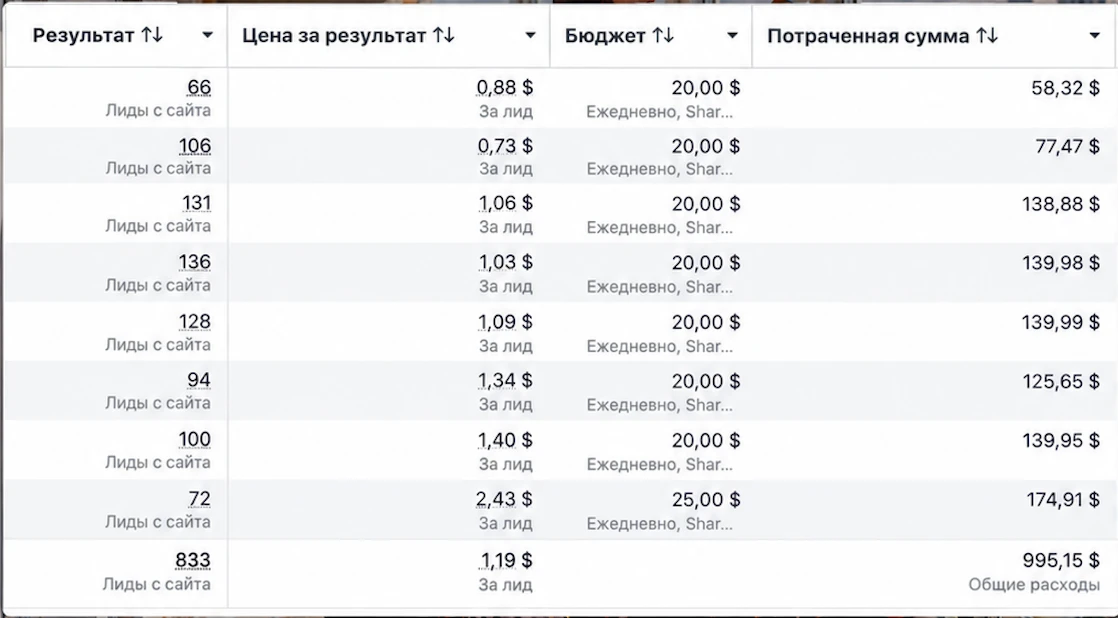
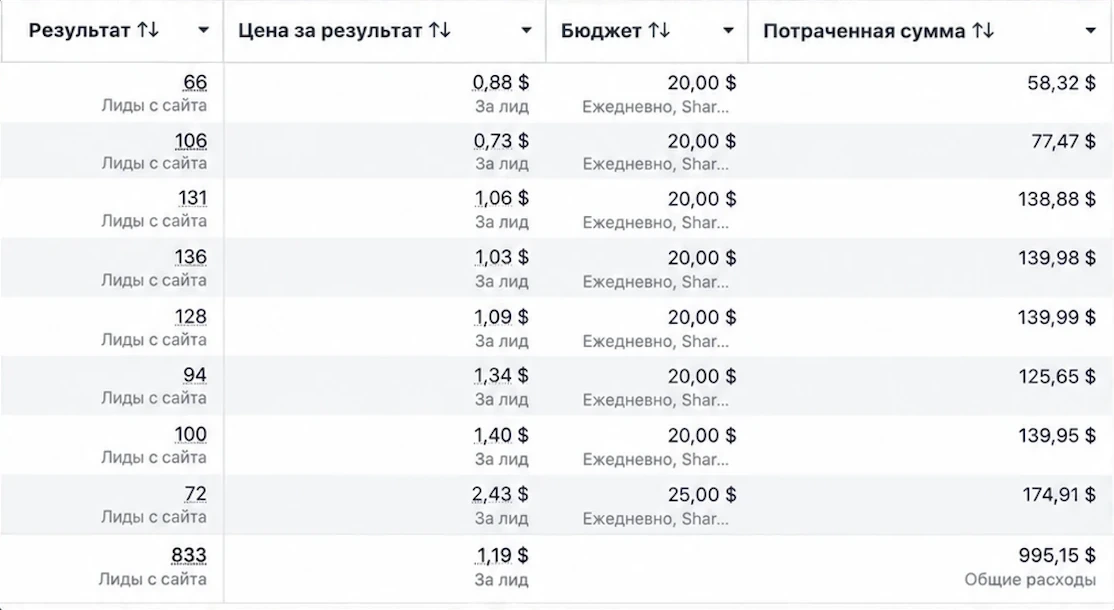
kp: правки после проверки — срезана тёмная кромка у скрина балконов, первый скрин по тмину обрезан по границе строки, размеры img обновлены, в COPY.md/DESIGN.md убраны упоминания старой картинки
Claude-Session: https://claude.ai/code/session_01YBJW2xSYFCdZePFjFwa6w9

diff --git a/silkway-kp-site/index.html b/silkway-kp-site/index.html
@@ -117,7 +117,7 @@
           <article class="case case--light">
             <figure class="case__media">
               <a class="case__shot" href="assets/cabinet-balcony.webp" target="_blank" rel="noopener">
-                <img src="assets/cabinet-balcony.webp" alt="Рекламный кабинет: 833 лида с сайта по $1,19, расход $995,15" width="1118" height="618" loading="lazy">
+                <img src="assets/cabinet-balcony.webp" alt="Рекламный кабинет: 833 лида с сайта по $1,19, расход $995,15" width="1114" height="610" loading="lazy">
               </a>
               <figcaption class="case__figcaption">Рекламный кабинет, остекление балконов</figcaption>
             </figure>
@@ -130,7 +130,7 @@
           <article class="case case--dark">
             <figure class="case__media">
               <a class="case__shot" href="assets/cabinet-tmin-1.webp" target="_blank" rel="noopener">
-                <img src="assets/cabinet-tmin-1.webp" alt="Рекламный кабинет: группы объявлений prem и tmin, цена за начатую переписку от $1,04" width="1720" height="768" loading="lazy">
+                <img src="assets/cabinet-tmin-1.webp" alt="Рекламный кабинет: группы объявлений prem и tmin, цена за начатую переписку от $1,04" width="1720" height="740" loading="lazy">
               </a>
               <a class="case__shot" href="assets/cabinet-tmin-2.webp" target="_blank" rel="noopener">
                 <img src="assets/cabinet-tmin-2.webp" alt="Рекламный кабинет: общие расходы $9 038,25, цена за начатую переписку около $2" width="1103" height="580" loading="lazy">

diff --git a/silkway-kp-site/DESIGN.md b/silkway-kp-site/DESIGN.md
@@ -41,7 +41,7 @@
 3. **Что делаю**: H2 + сетка 2×2 белых карточек с оранжевой нумерацией 01-04.
 4. **Как проходит неделя**: H2 + три колонки под верхней линией 2px `--ink`. В каждой: оранжевая метка «День 1-2» и текст.
 5. **Цена**: один оранжевый блок, радиус 24px. Слева надпись и цена 100 000 ₸ белым, справа два условия.
-6. **Кейсы**: H2 + подзаголовок. Две карточки: белая с картинкой сверху (`assets/case-balcony.png`, object-fit cover, потом сюда скрин кабинета) и тёмная с большой оранжевой цифрой 450%. Под ними белая плашка с оранжевой левой границей 4px (честная строка про карго).
+6. **Кейсы**: H2 + подзаголовок. Две карточки: белая со скрином кабинета сверху (`assets/cabinet-balcony.webp`, подпись под ним, по тапу открывается в полный размер) и тёмная с двумя скринами кабинета (`assets/cabinet-tmin-1.webp`, `assets/cabinet-tmin-2.webp`) и большой оранжевой цифрой 450%. Под ними белая плашка с оранжевой левой границей 4px (честная строка про карго).
 7. **CTA**: тёмный блок, радиус 24px. Слева заголовок и строка, справа оранжевая кнопка `Написать в ватсап` (высота 56px, радиус 14px, ссылка на wa.me).
 8. **Футер**: две строки серым, 15px.
 

diff --git a/silkway-kp-site/COPY.md b/silkway-kp-site/COPY.md
@@ -36,12 +36,12 @@ H1: Тест рекламы на 7 дней
 H2: Кейсы
 Подзаголовок: Из других ниш, но механика та же: реклама в инстаграме, заявки в ватсап, считаем цену заявки и выручку.
 
-Кейс 1 (с картинкой `assets/case-balcony.png`, позже заменить на скрин кабинета):
+Кейс 1 (со скрином кабинета `assets/cabinet-balcony.webp`, подпись «Рекламный кабинет, остекление балконов»):
 - Метка: Остекление балконов
 - Заголовок: 2,5 → 12 млн ₸ выручки
 - Текст: 833 заявки по $1,19 при бюджете $995. Заявок стало столько, что пришлось нанимать монтажников.
 
-Кейс 2 (тёмная карточка, слот под скрин кабинета):
+Кейс 2 (тёмная карточка, два скрина кабинета `assets/cabinet-tmin-1.webp` и `assets/cabinet-tmin-2.webp`, подпись «Рекламный кабинет, коллаген и тмин»):
 - Метка: БАДы: коллаген и тмин
 - Цифра: **450%**
 - Подпись: окупаемость рекламы
